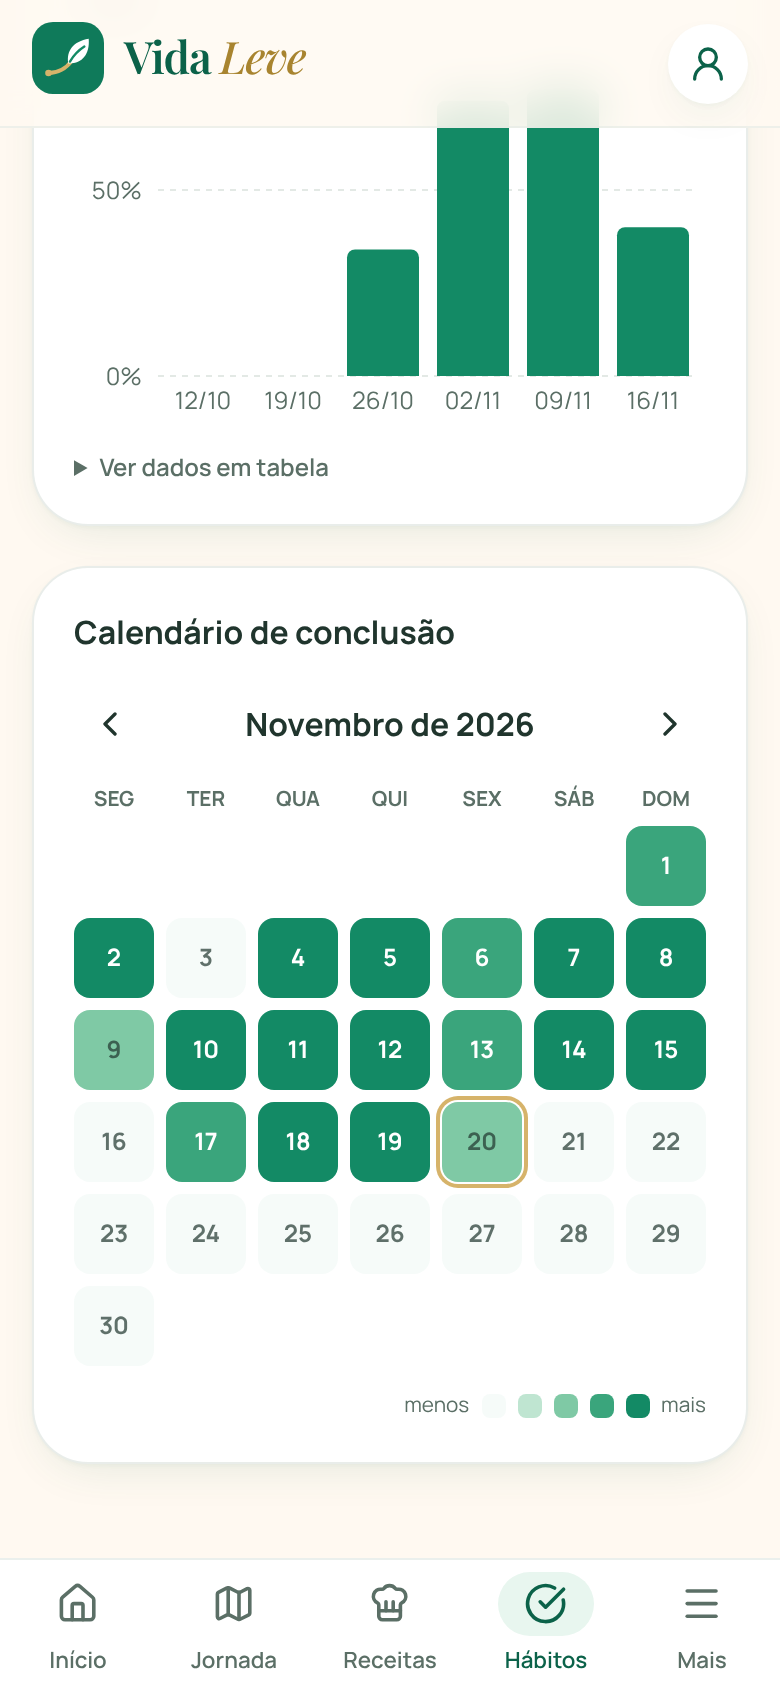
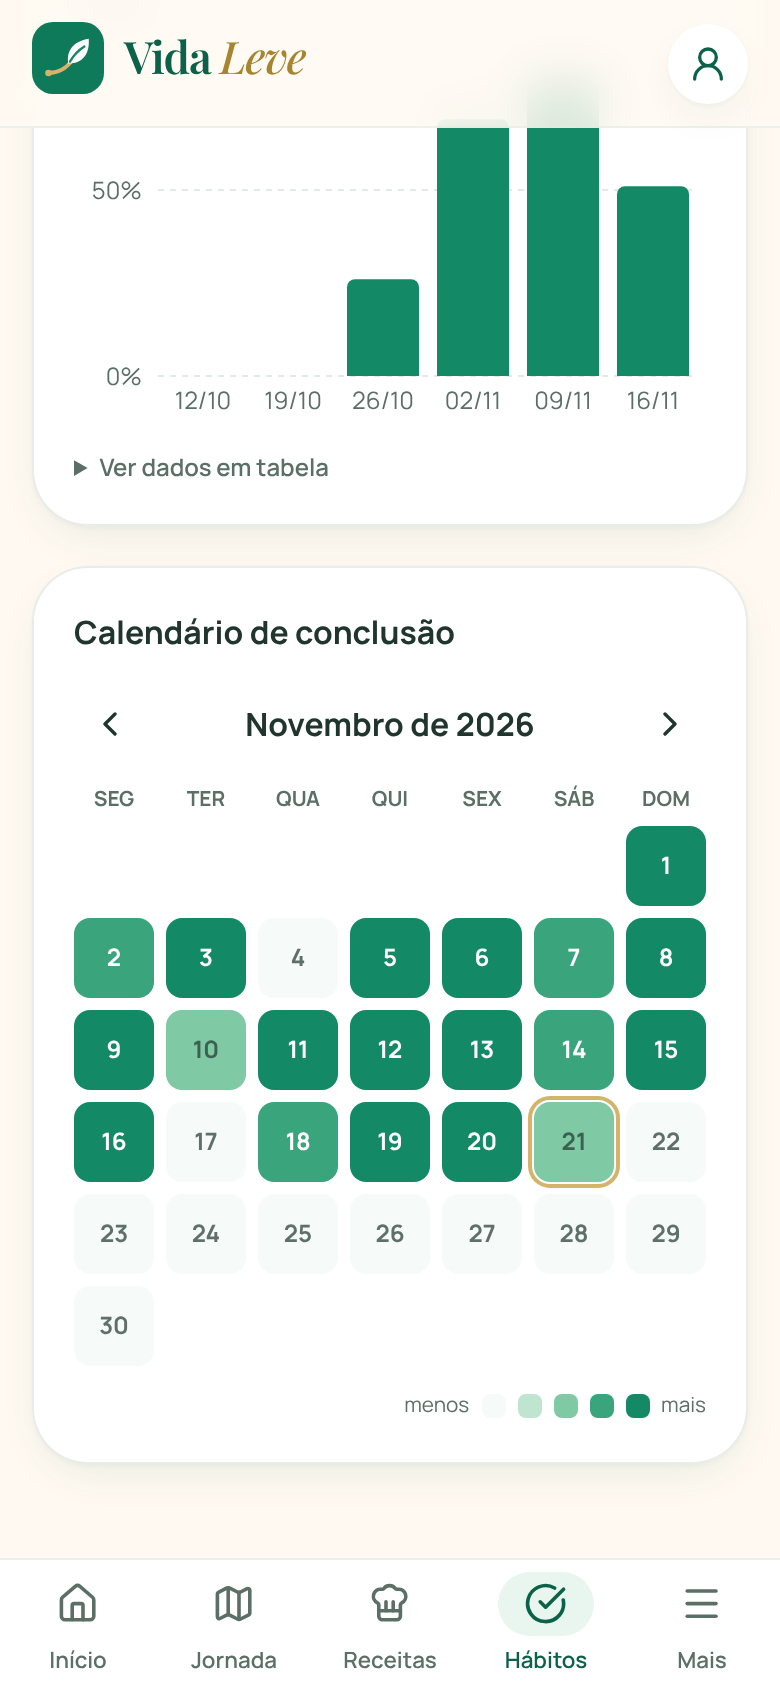
Receitas: 43 fotos realistas (entram automaticamente por public/images/receitas); telas do carrossel atualizadas
Claude-Session: https://claude.ai/code/session_01MiRh27gaagJqPz3TM5B8Qc

diff --git a/src/components/brand/recipe-art.tsx b/src/components/brand/recipe-art.tsx
@@ -1,5 +1,8 @@
 import type { Recipe, RecipeCategory } from "@/lib/content/types";
 import { cn, hashString } from "@/lib/utils";
+import RECIPE_IMAGES_JSON from "@/lib/content/recipe-images.json";
+
+const RECIPE_IMAGES = RECIPE_IMAGES_JSON as Record<string, string>;
 
 const PALETTE: Record<RecipeCategory, { bg: string; bg2: string; plate: string }> = {
   "cafe-da-manha": { bg: "#FBEFD9", bg2: "#F4DDB2", plate: "#FFFDF8" },
@@ -32,9 +35,10 @@ function colorsFor(recipe: Pick<Recipe, "keyIngredients" | "slug">) {
  * fotografia cadastrada no painel admin.
  */
 export function RecipeArt({ recipe, className }: { recipe: Pick<Recipe, "slug" | "category" | "keyIngredients" | "title" | "imageUrl">; className?: string }) {
-  if (recipe.imageUrl) {
+  const photo = recipe.imageUrl || RECIPE_IMAGES[recipe.slug];
+  if (photo) {
     // eslint-disable-next-line @next/next/no-img-element
-    return <img src={recipe.imageUrl} alt={recipe.title} className={cn("h-full w-full object-cover", className)} loading="lazy" />;
+    return <img src={photo} alt={recipe.title} className={cn("h-full w-full object-cover", className)} loading="lazy" />;
   }
   const p = PALETTE[recipe.category];
   const h = hashString(recipe.slug);
